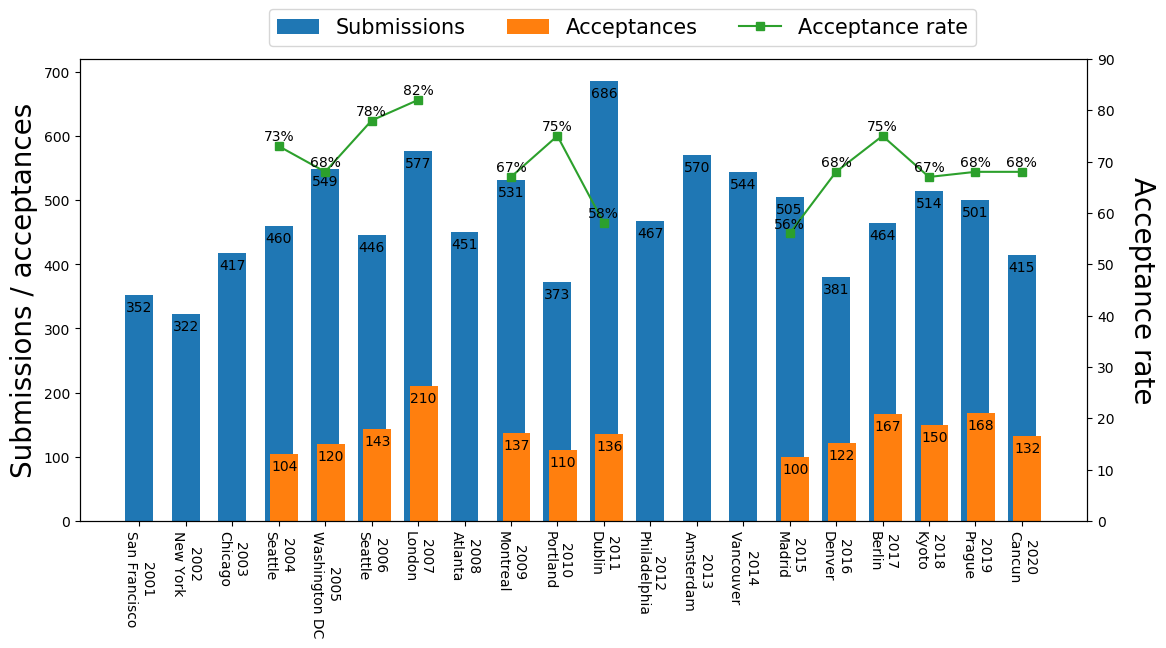
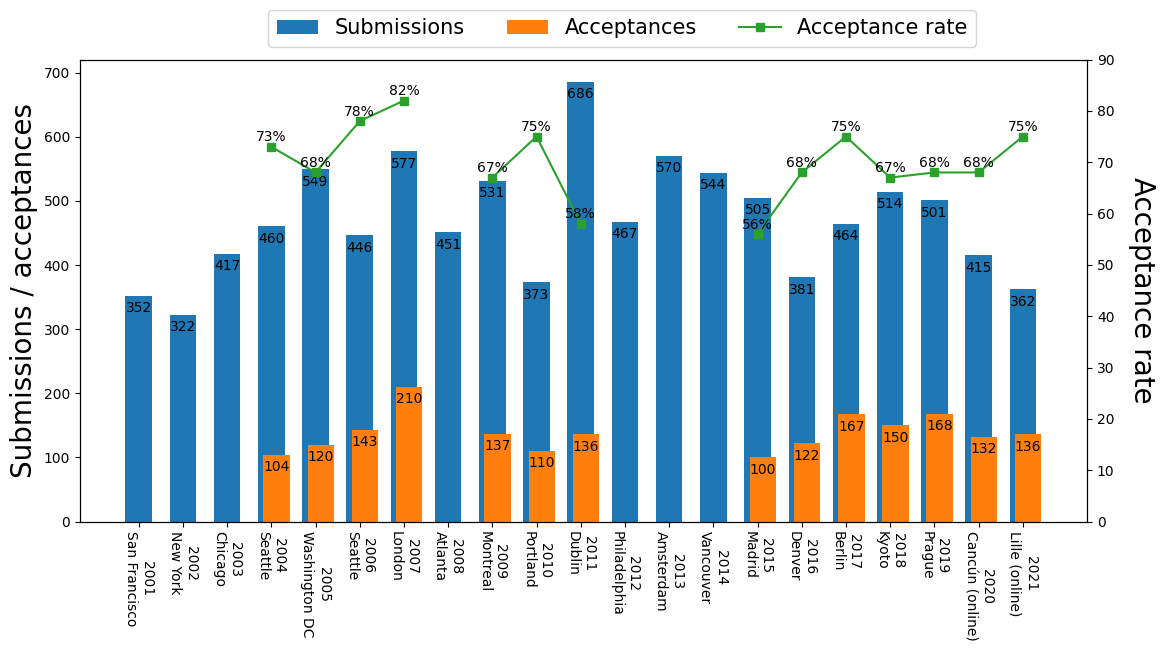
revised stats of gecco2021

diff --git a/index.md b/index.md
@@ -74,7 +74,7 @@ This table provides statistics of full papers, not two-page poster papers.
 | 2018 | 514        | 195        | 38%             | Kyoto         | 
 | 2019 | 501        | 173        | 35%             | Prague        | 
 | 2020 | 415        | 149        | 36%             | Cancún (online)       | 
-| 2021 | 362        | 136        | 38%             | Lille (online)       | 
+| 2021 | 362        | 134        | 37%             | Lille (online)       | 
 
 ![GECCO](fig/stats_gecco.png) 
 
@@ -109,7 +109,8 @@ It is not obvious how to calculate the acceptance rates of GECCO poster papers. 
 | 2017 | 464        | 167        | 181             | 75%             | Berlin        | 
 | 2018 | 514        | 150        | 195             | 67%             | Kyoto         | 
 | 2019 | 501        | 168        | 173             | 68%             | Prague        | 
-| 2020 | 415        | 132        | 149             | 68%             | Cancun        | 
+| 2020 | 415        | 132        | 149             | 68%             | Cancún (online)        | 
+| 2021 | 362        | 134        | 136             | 75%             | Lille (online)       | 
 
 ![GECCO (poster)](fig/stats_gecco_poster.png) 
 
